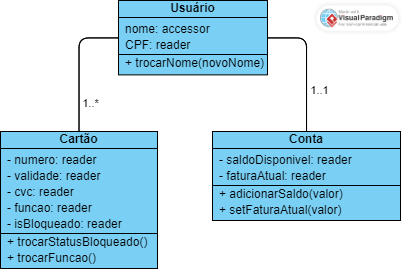
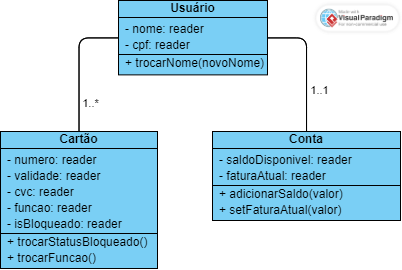
fix misspellings

Changed region(s): [[0.2985, 0.0889, 0.5373, 0.2074]]

diff --git a/classes/cartao.rb b/classes/cartao.rb
@@ -1,0 +1,8 @@
+class Cartao
+    attr_accessor :isBloqueado, :funcao
+    attr_reader :numero, :validade, :cvc
+
+    def bloquear()
+
+    end
+end

diff --git a/classes/usuario.rb b/classes/usuario.rb
@@ -3,6 +3,6 @@ class Usuario
     attr_reader :CPF
 
     def setNome(nome)
-        @nome = nome;
+        
     end
 end
